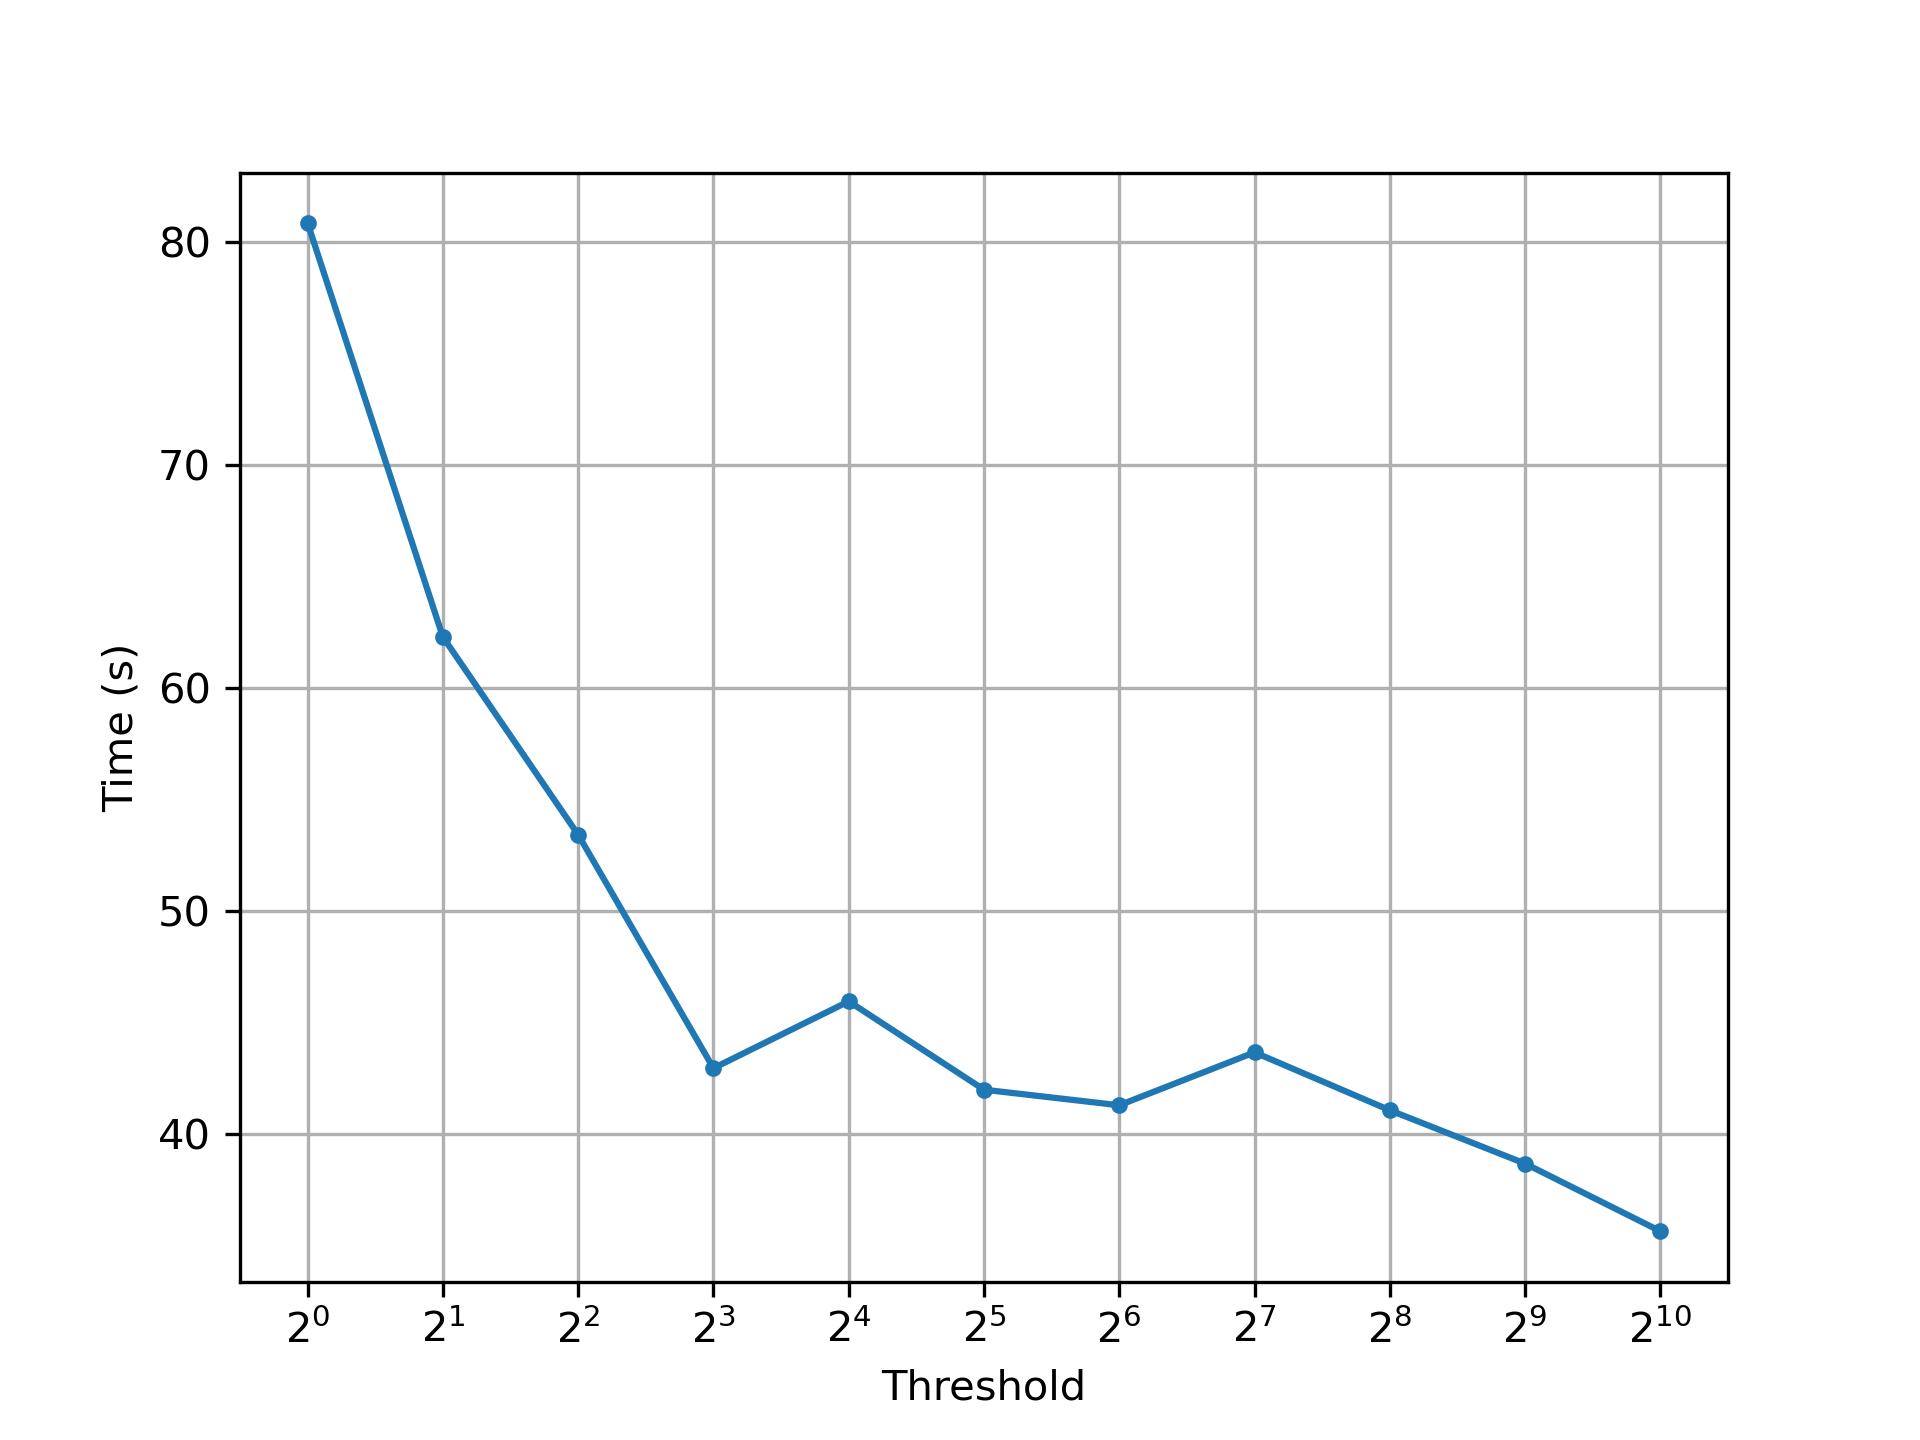
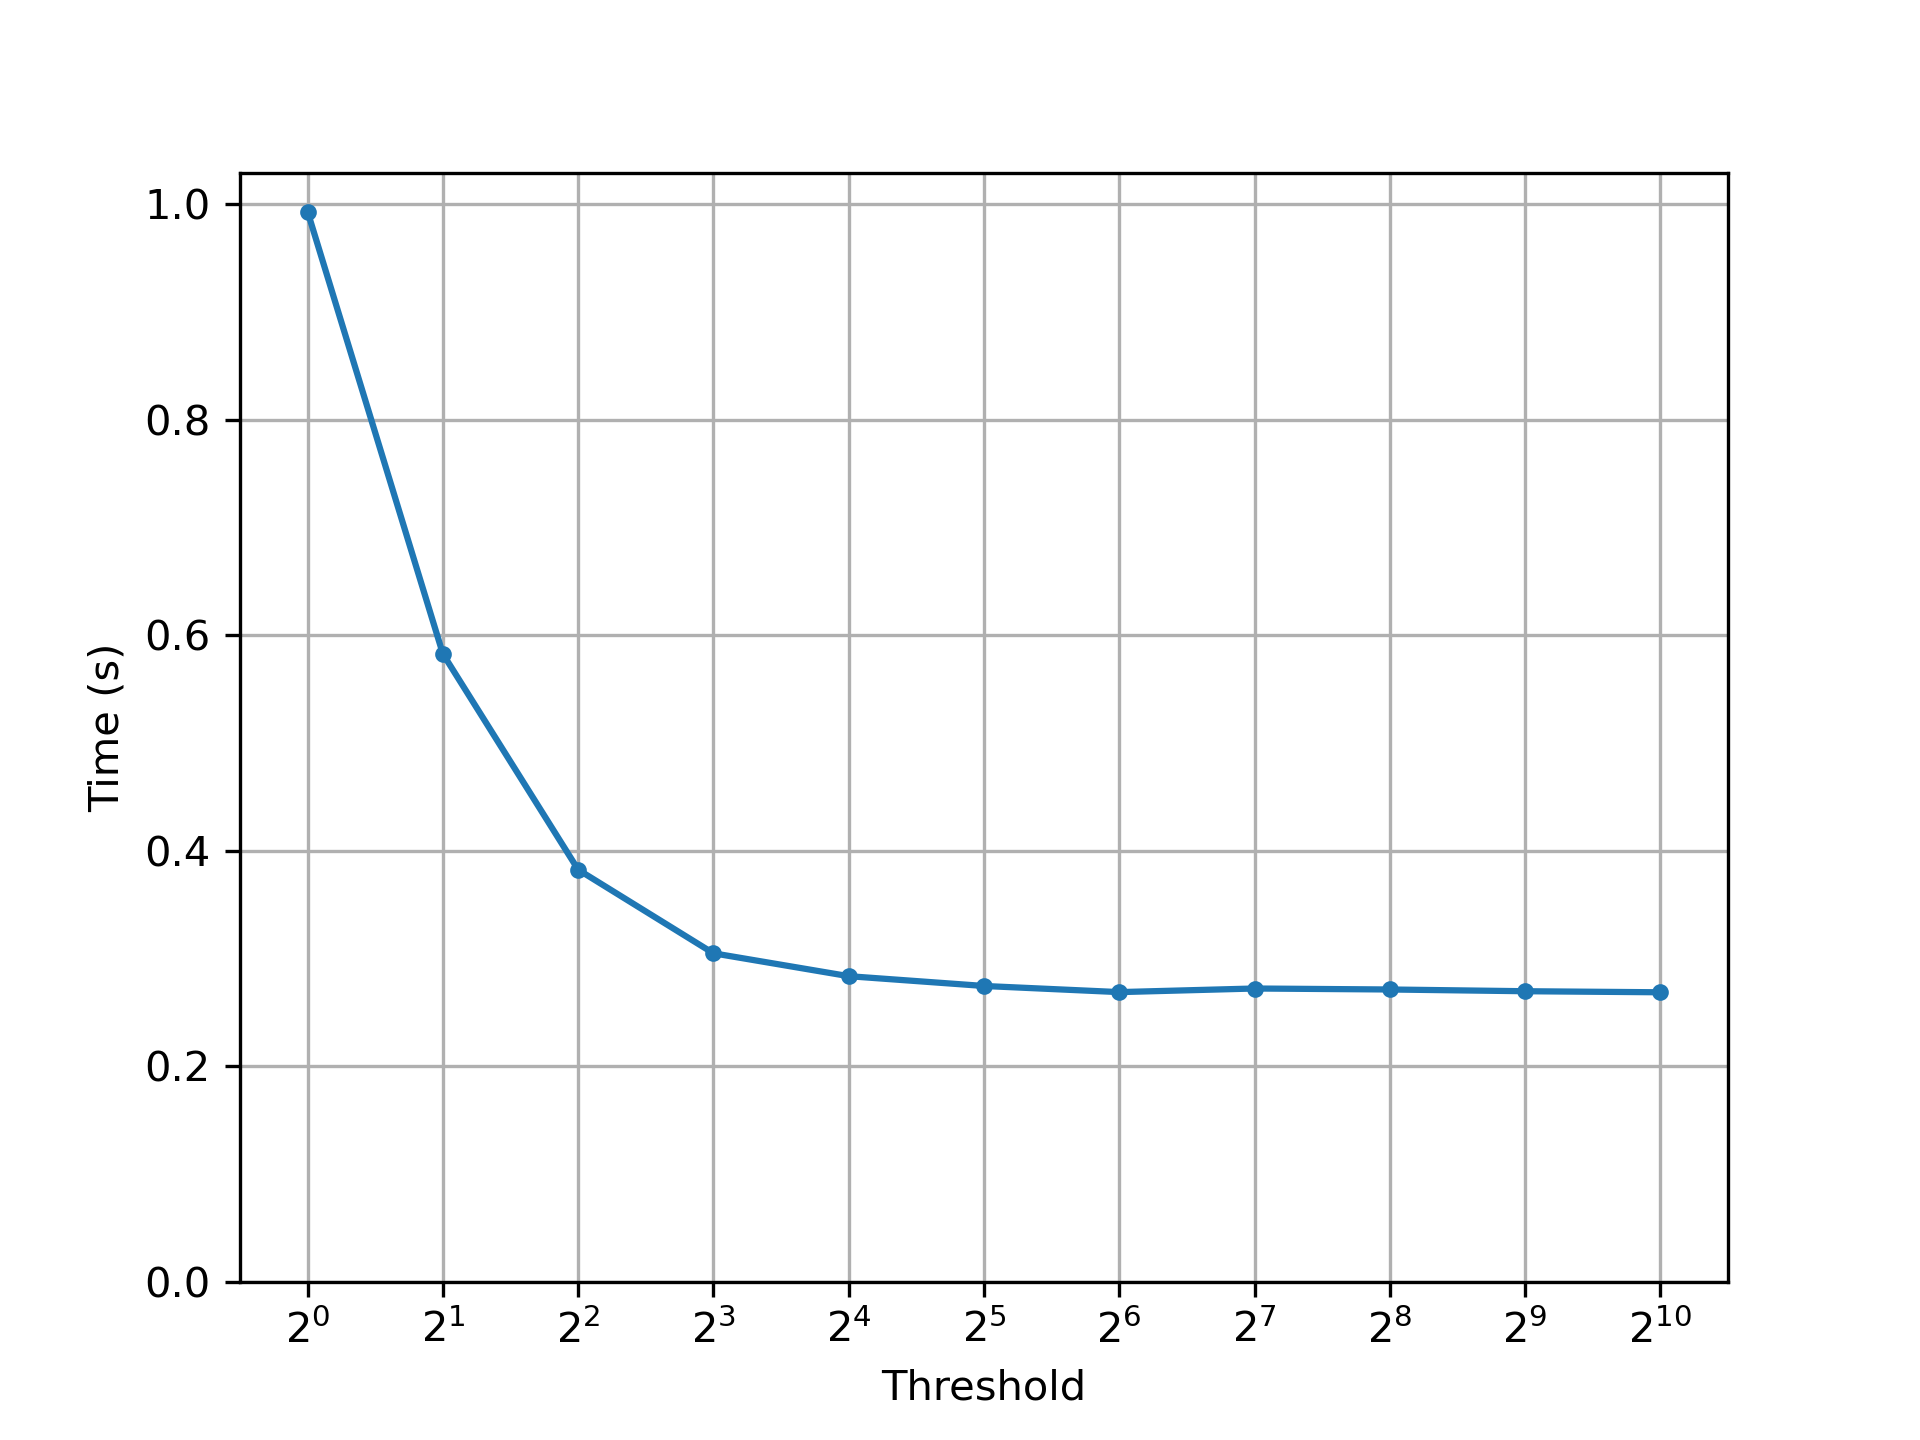
hw29: fix plot generation
* nloops=1000000 nexperiments=100
* run experiments sequentially to avoid skewing results by overloading CPUs

diff --git a/hw29-threads-locks-usage/plot_xthreads_ytime.py b/hw29-threads-locks-usage/plot_xthreads_ytime.py
@@ -1,6 +1,6 @@
 #!/usr/bin/env python3
 
-import sys
+import sys, statistics
 from matplotlib import pyplot
 
 # retrieve data
@@ -12,9 +12,15 @@ for line in sys.stdin:
     result = float(line[3])
     if program not in data:
         data[program] = {}
-    data[program][nthreads] = result
-for program, results in data.items():
-    data[program] = dict(sorted(results.items()))
+    if nthreads not in data[program]:
+        data[program][nthreads] = []
+    data[program][nthreads].append(result)
+for program, threads in data.items():
+    data[program] = dict(sorted(threads.items()))
+    data[program] = dict(
+        (thread, statistics.mean(results))
+        for thread, results in threads.items()
+    )
 
 # plot data
 figure, axis = pyplot.subplots()
@@ -22,6 +28,7 @@ for i, (program, results) in enumerate(data.items()):
     axis.plot(results.keys(), results.values(), marker='.', \
         linestyle=(0, (1, i)), label=program)
 axis.legend()
+axis.set_xticks(tuple(tuple(data.values())[0].keys()))
 axis.set_xlabel("Threads")
 axis.set_ylabel("Time (s)")
 axis.grid()

diff --git a/hw29-threads-locks-usage/plot_xthreshold_ytime.py b/hw29-threads-locks-usage/plot_xthreshold_ytime.py
@@ -1,6 +1,6 @@
 #!/usr/bin/env python3
 
-import sys
+import sys, statistics
 from matplotlib import pyplot
 
 # retrieve data
@@ -9,8 +9,14 @@ for line in sys.stdin:
     line = line.split()
     threshold = int(line[0])
     result = float(line[2])
-    data[threshold] = result
+    if threshold not in data:
+        data[threshold] = []
+    data[threshold].append(result)
 data = dict(sorted(data.items()))
+data = dict(
+    (threshold, statistics.mean(results))
+    for threshold, results in data.items()
+)
 
 # plot data
 figure, axis = pyplot.subplots()
@@ -18,6 +24,7 @@ axis.plot(data.keys(), data.values(), marker='.')
 axis.set_xscale('log', base=2)
 axis.set_xticks(tuple(data.keys()))
 axis.set_xlabel("Threshold")
+axis.set_ylim(ymin=0)
 axis.set_ylabel("Time (s)")
 axis.grid()
 

diff --git a/hw29-threads-locks-usage/answers.md b/hw29-threads-locks-usage/answers.md
@@ -5,14 +5,14 @@ I used `std::chrono::steady_clock` w/ a `tick period` of 1 ns on my computer.
 Q2. Now, build a simple concurrent counter and measure how long it takes to increment the counter many times as the number of threads increases. How many CPUs are available on the system you are using? Does this number impact your measurements at all?
 
 * See `simple_counter.cpp`.
-* The following plot shows the execution time of `simple_counter` and `sloppy_counter` (`threshold=1024`) with `nthreads=[1;10]` and `nloops=100000000`. Four CPUs are available on my system.
+* The following plot shows the execution time of `simple_counter` and `sloppy_counter` (`threshold=1024`) with `nthreads=[1;4]` and `nloops=1000000` averaged over 100 experiments. My system has 2 cores each able to run 2 threads in parallel.
 
 ![Performance of simple vs sloppy counters](counters_plot.png)
 
 Q3. Next, build a version of the sloppy counter. Once again, measure its performance as the number of threads varies, as well as the threshold. Do the numbers match what you see in the chapter?
 
 * See `sloppy_counter.cpp` and the plot in the previous question.
-* The following plot shows the execution time of `sloppy_counter` with `nthreads=4` `nloops=100000000` and `threshold=[2**0;2**10]`.
+* The following plot shows the execution time of `sloppy_counter` with `nthreads=4`, `nloops=1000000` and `threshold=[2**0;2**10]` averaged over 100 experiments.
 
 ![Sloppy counter scaling](threshold_plot.png)
 
